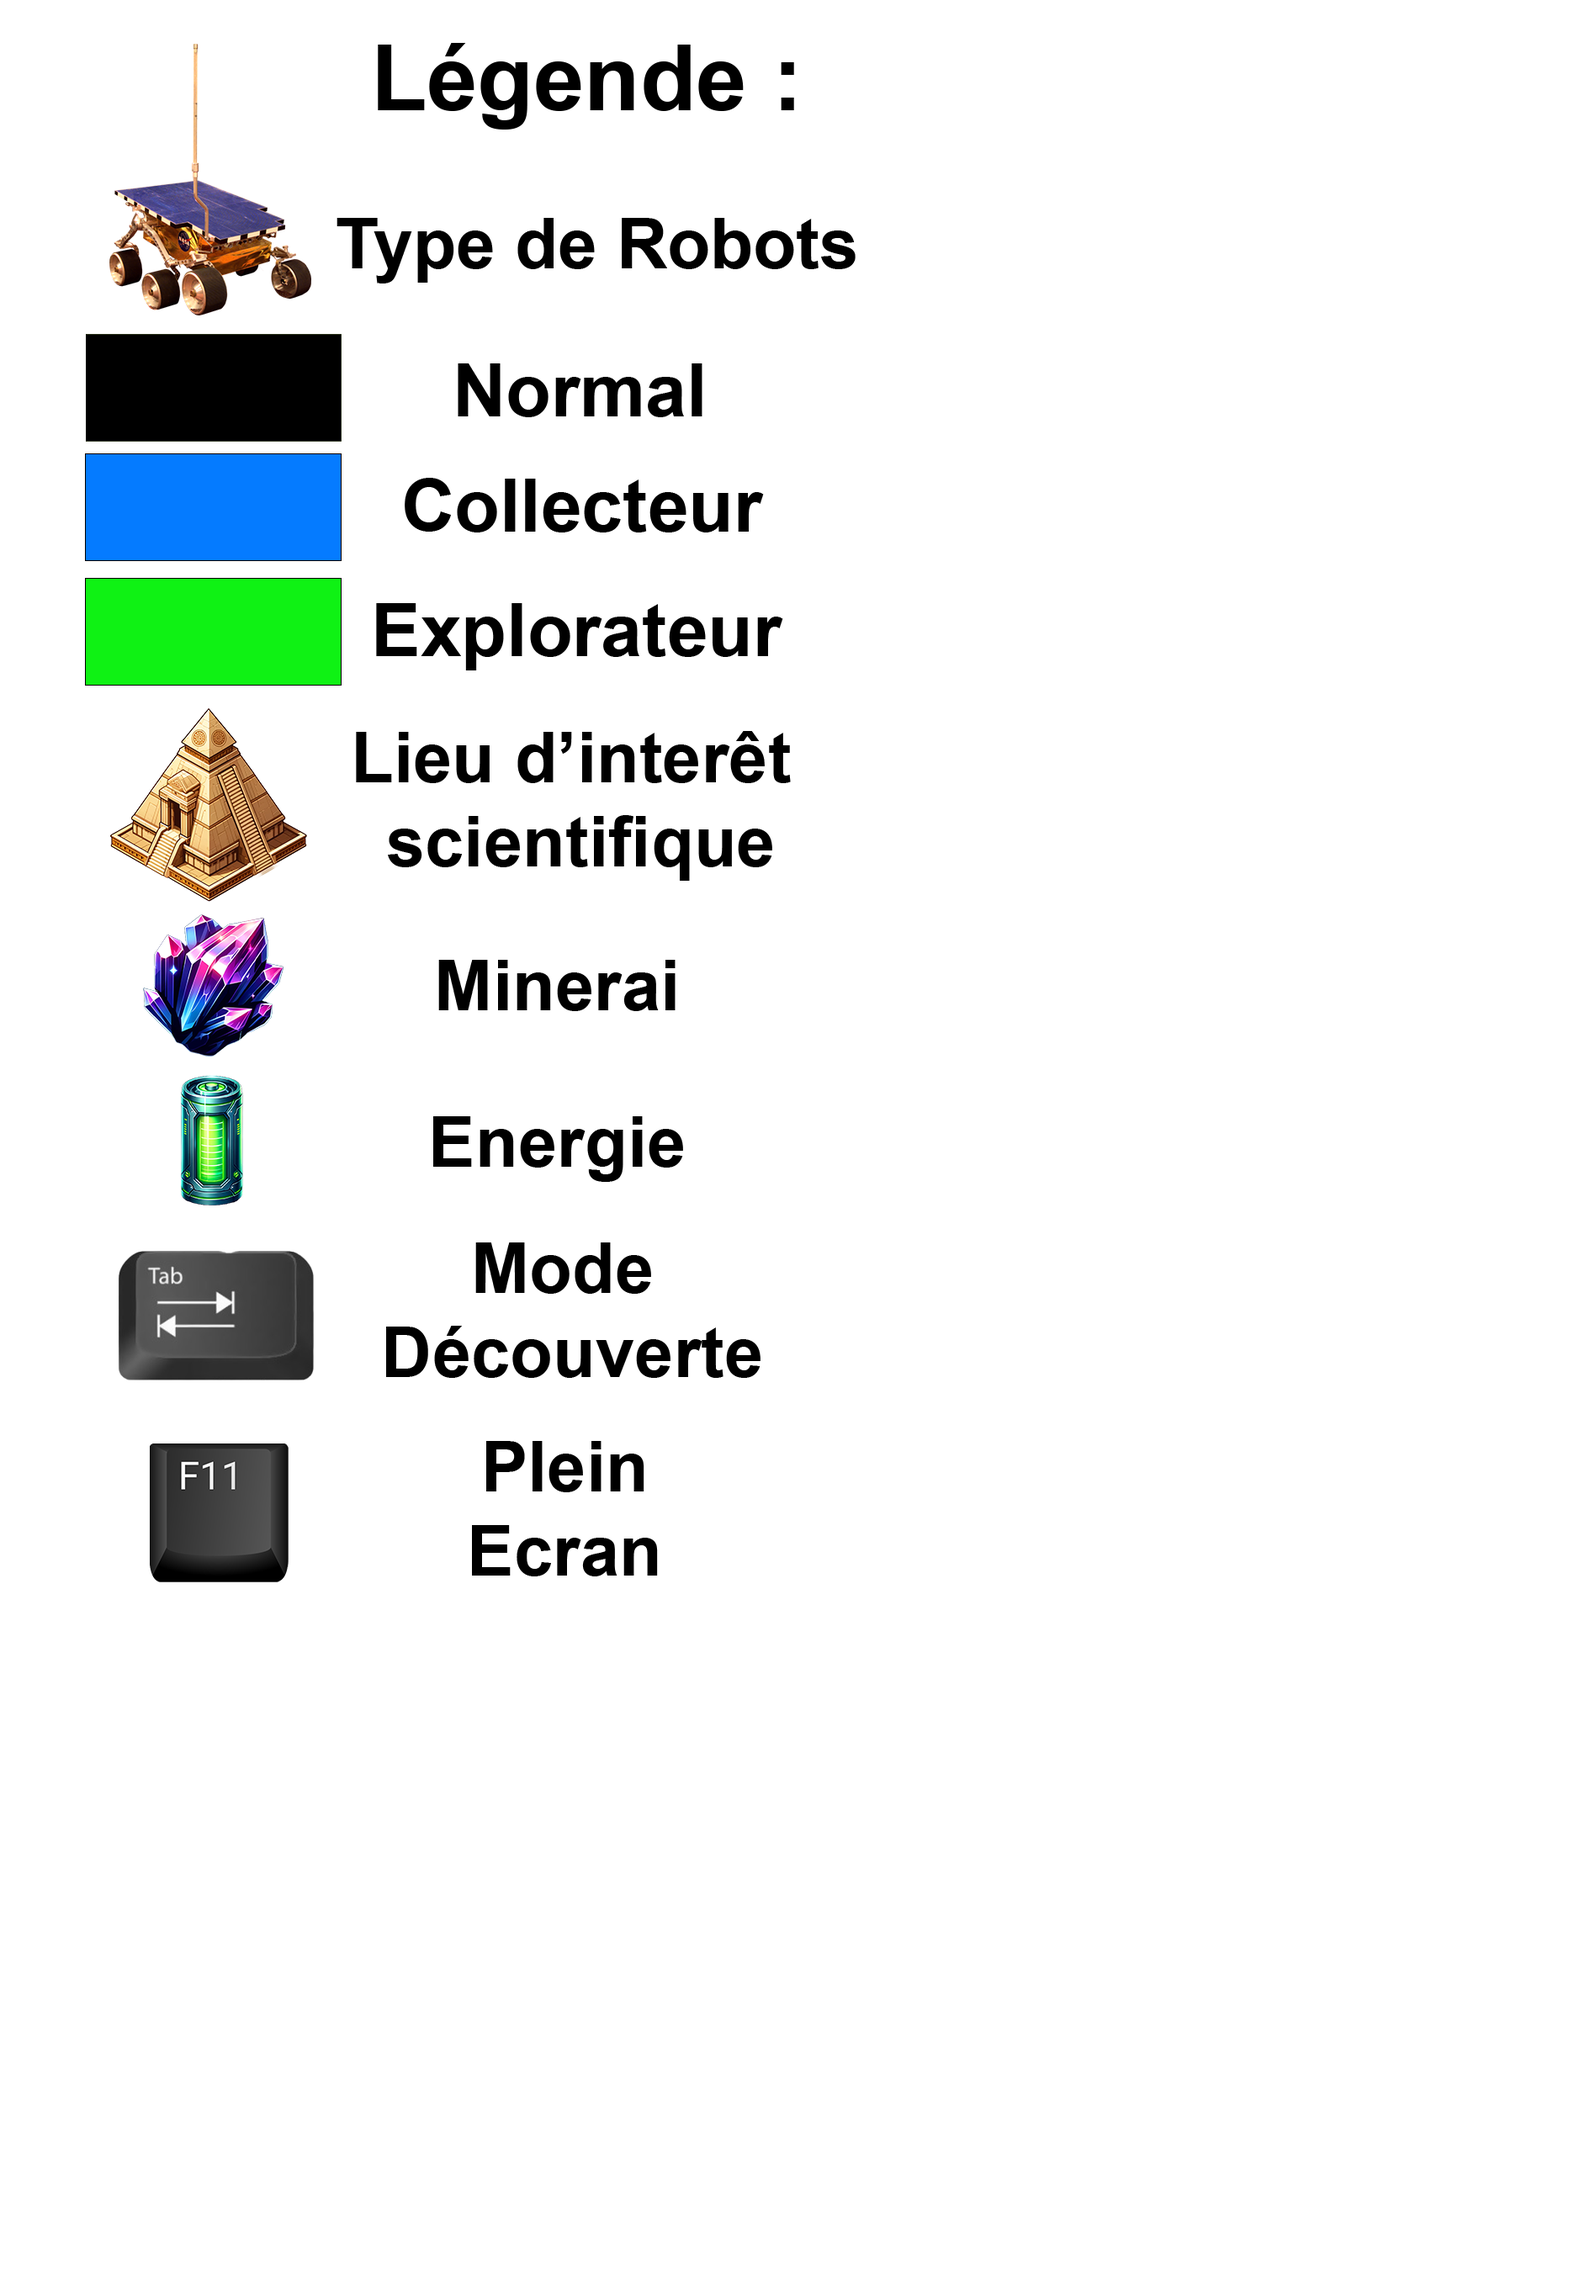
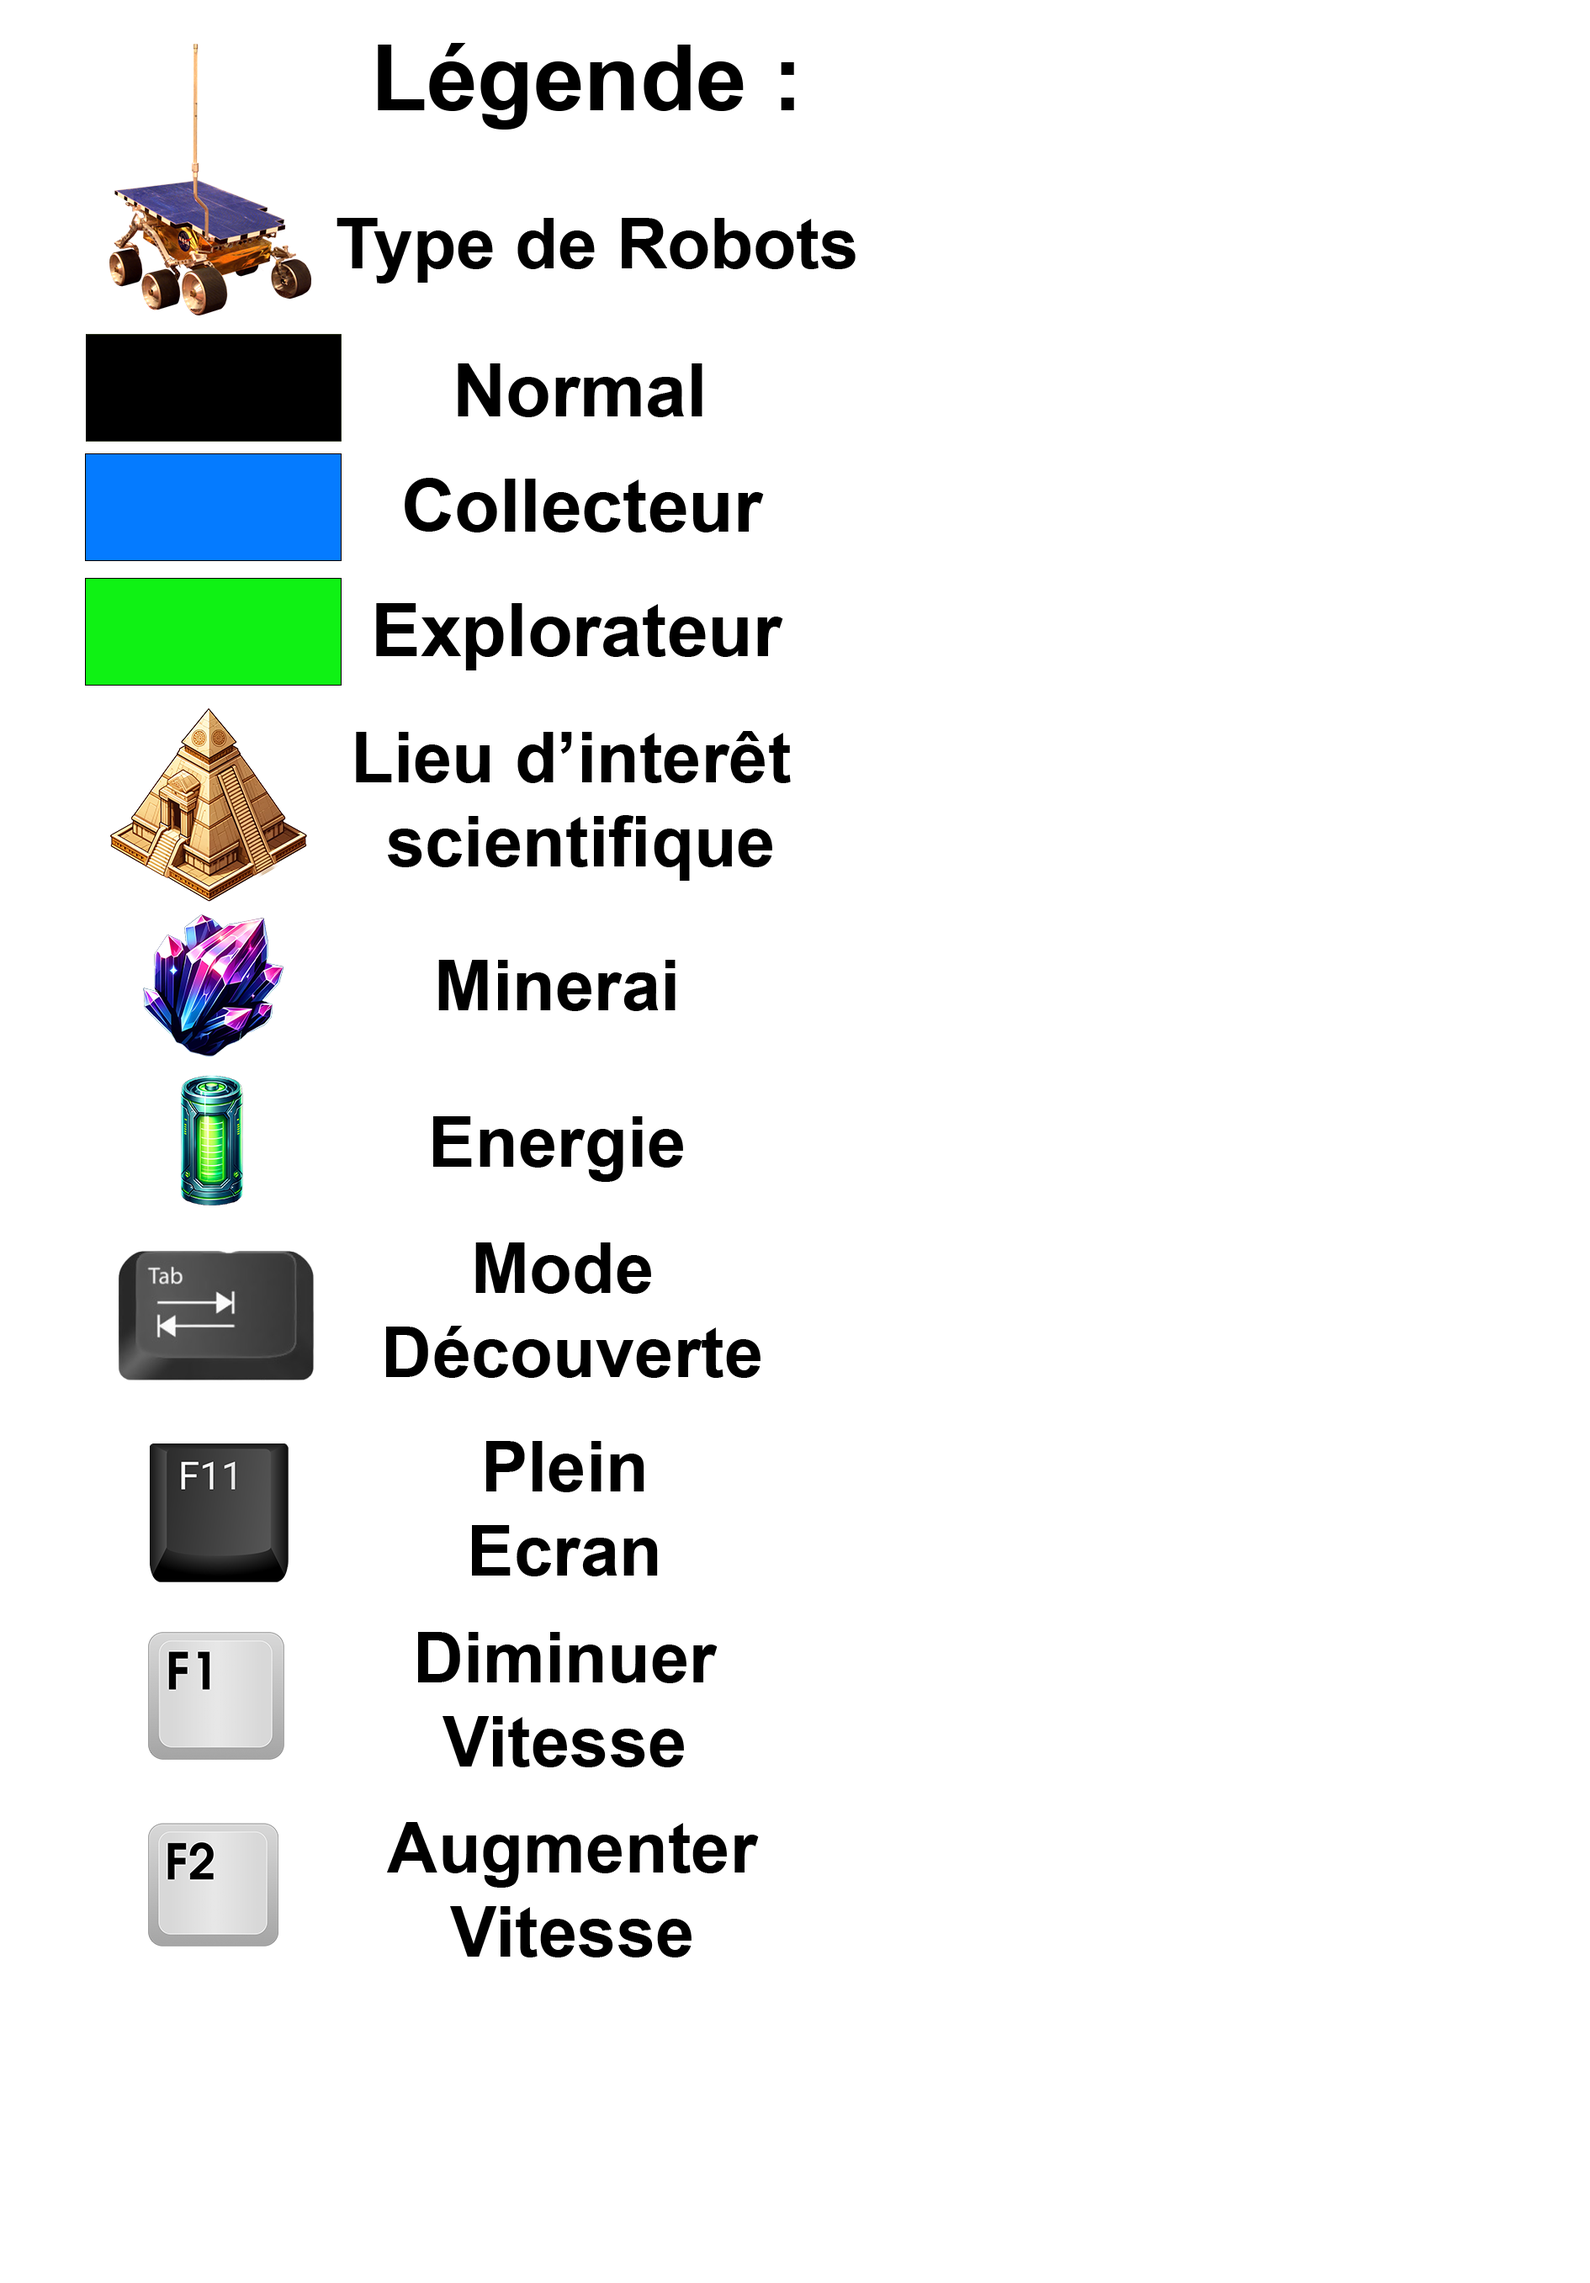
Ajout de la sélection de la vitesse du jeu et correction d'un bug avec la séléction des robots

Changed region(s): [[0.0937, 0.7119, 0.1873, 0.8666], [0.2497, 0.8047, 0.4683, 0.8666], [0.2497, 0.7119, 0.4683, 0.7738]]

diff --git a/src/main.rs b/src/main.rs
@@ -89,10 +89,10 @@ struct Robot {
     nom: String,
     pv_max: i32,
     type_robot: TypeRobot,
-    vitesse: i32,
+    vitesse: u32,
     timer: f32,
     target_position: Option<Position>,
-    steps_moved: i32,
+    steps_moved: u32,
 }
 
 #[derive(Resource, Debug)]
@@ -101,12 +101,19 @@ struct Compteur {
     energie: u32
 }
 
+#[derive(Resource, Debug)]
+struct VitesseGlobale {
+    vitesse: u32
+}
+
 #[derive(Component)]
 struct TexteEnergie;
 
 #[derive(Component)]
 struct TexteMinerai;
 
+#[derive(Component)]
+struct TexteVitesse;
 
 #[derive(Component, Debug)]
 struct ElementCarte {
@@ -338,6 +345,7 @@ fn spawn_robots(
     mut commands: Commands,
     asset_server: Res<AssetServer>,
     base_query: Query<(&Base, &Position)>,
+    vitesse_globale: Res<VitesseGlobale>
 ) {
     println!("Choisissez le nombre de robot :");
 
@@ -350,8 +358,11 @@ fn spawn_robots(
 
     let trimmed = input.trim();
 
-    let limit: i32 = trimmed.parse().expect("Input was not a valid integer");
-
+    let limit = trimmed.parse::<i32>().unwrap_or_else(|_| {
+        println!("Mauvaise valeur dans le choix du nombre de robot. La simulation commencera à 5 robots.");
+        5 
+    });
+    
     let robot_texture_handle = asset_server.load(ROBOT_SPRITE);
 
     if let Some((_, base_position)) = base_query.iter().next() {
@@ -372,7 +383,7 @@ fn spawn_robots(
             let target_x: i32 = rand::thread_rng().gen_range(0..50) as i32;
             let target_y: i32 = rand::thread_rng().gen_range(0..50) as i32;
 
-            let timer = 5.0 / vitesse as f32;
+            let timer = 5.0 / (vitesse * vitesse_globale.vitesse) as f32;
 
             commands
                 .spawn(SpriteBundle {
@@ -418,8 +429,8 @@ fn collect_resources_system(
     mut commands: Commands,
     mut robot_query: Query<(Entity, &mut Robot, &Position)>,
     mut element_carte_query: Query<(Entity, &mut ElementCarte, &Position)>,
-    mut query_energie: Query<&mut Text, (With<TexteEnergie>, Without<TexteMinerai>)>,
-    mut query_minerai: Query<&mut Text, (With<TexteMinerai>, Without<TexteEnergie>)>,
+    mut query_energie: Query<&mut Text, (With<TexteEnergie>, Without<TexteMinerai>, Without<TexteVitesse>)>,
+    mut query_minerai: Query<&mut Text, (With<TexteMinerai>, Without<TexteEnergie>, Without<TexteVitesse>)>,
     mut compteur: ResMut<Compteur>,
 ) {
     for (robot_entity, mut robot, robot_position) in robot_query.iter_mut() {
@@ -531,8 +542,24 @@ fn toggle_cases_non_decouvertes(
     // Bascule l'état d'affichage quand la touche Tab est pressée
     if keyboard_input.just_pressed(KeyCode::Tab) {
         affichage.0 = !affichage.0;
-        println!("Affichage cases non découvertes: {:?}", affichage.0);
-        print!("test");
+    }
+}
+
+/*
+ *** Fonction pour augmenter ou diminuer la vitesse globale de l'application et du parcours des robots
+ */ 
+fn toggle_vitesse(
+    keyboard_input: Res<ButtonInput<KeyCode>>,
+    mut vitesse_globale: ResMut<VitesseGlobale>,
+    mut query_vitesse: Query<&mut Text, (With<TexteVitesse>, Without<TexteEnergie>, Without<TexteMinerai>)>,
+) {
+    if keyboard_input.just_pressed(KeyCode::F2) && vitesse_globale.vitesse < 150 {
+        vitesse_globale.vitesse += 1;
+        update_text_vitesse(&mut query_vitesse, vitesse_globale)
+    }
+    else if keyboard_input.just_pressed(KeyCode::F1) && vitesse_globale.vitesse > 1 {
+        vitesse_globale.vitesse -= 1;
+        update_text_vitesse(&mut query_vitesse, vitesse_globale)
     }
 }
 
@@ -588,6 +615,7 @@ fn move_robots_on_map_system(
     base_query: Query<(&Base, &Position), Without<Robot>>, // Exclure les Robots ici
     element_carte_query: Query<(&ElementCarte, &Position), Without<Robot>>, // Exclure les Robots ici
     time: Res<Time>,
+    vitesse_globale: Res<VitesseGlobale>
 ) {
     let delta = time.delta_seconds();
     let carte = carte_query.single();
@@ -600,7 +628,7 @@ fn move_robots_on_map_system(
             RobotState::Exploring => {
                 if robot.timer <= 0.0 {
                     if let Some(target_position) = &robot.target_position {
-                        if *position != *target_position && robot.steps_moved < 30 {
+                        if *position != *target_position {
                             // Vérifie si la position suivante est un obstacle
                             let next_x = (position.x + (target_position.x - position.x).signum())
                                 % carte.largeur as i32;
@@ -636,7 +664,7 @@ fn move_robots_on_map_system(
                             *state = RobotState::Returning;
                         }
                     }
-                    robot.timer = 1.0 / robot.vitesse as f32;
+                    robot.timer = 1.0 / (robot.vitesse * vitesse_globale.vitesse) as f32;
                 }
             }
             RobotState::Returning => {
@@ -651,7 +679,7 @@ fn move_robots_on_map_system(
                         *state = RobotState::AtBase;
                         robot.timer = 5.0; // Attente à la base
                     }
-                    robot.timer = 1.0 / robot.vitesse as f32;
+                    robot.timer = 1.0 / (robot.vitesse * vitesse_globale.vitesse) as f32;
                 }
             }
             RobotState::AtBase => {
@@ -666,7 +694,7 @@ fn move_robots_on_map_system(
                     robot.steps_moved = 0;
 
                     *state = RobotState::Exploring;
-                    robot.timer = 1.0 / robot.vitesse as f32;
+                    robot.timer = 1.0 / (robot.vitesse * vitesse_globale.vitesse) as f32;
                 }
             }
         }
@@ -784,7 +812,7 @@ fn setup_ui(
             TextSection::new(
                 "0",
                 TextStyle {
-                    font: font,
+                    font: font.clone(),
                     font_size: 30.0,
                     color: Color::PURPLE,
                 }
@@ -799,7 +827,37 @@ fn setup_ui(
         },
         ..default()
     })
-    .insert(TexteMinerai);    
+    .insert(TexteMinerai);  
+
+    commands.spawn(TextBundle {
+        text: Text::from_sections([
+            TextSection::new(
+                "Vitesse: x",
+                TextStyle {
+                    font: font.clone(),
+                    font_size: 30.0,
+                    color: Color::WHITE,
+                }
+            ),
+            TextSection::new(
+                "1",
+                TextStyle {
+                    font: font.clone(),
+                    font_size: 30.0,
+                    color: Color::WHITE,
+                }
+            )
+        ])
+        .with_justify(JustifyText::Right),
+        style: Style {
+            position_type: PositionType::Absolute,
+            top: Val::Px(50.0), 
+            right: Val::Px(25.0),
+            ..default()
+        },
+        ..default()
+    })
+    .insert(TexteVitesse);    
 }
 
 /***
@@ -807,8 +865,8 @@ fn setup_ui(
  */
 fn update_text(
     compteur: &Compteur,
-    mut query_energie: &mut Query<&mut Text, (With<TexteEnergie>, Without<TexteMinerai>)>,
-    mut query_minerai: &mut Query<&mut Text, (With<TexteMinerai>, Without<TexteEnergie>)>
+    mut query_energie: &mut Query<&mut Text, (With<TexteEnergie>, Without<TexteMinerai>, Without<TexteVitesse>)>,
+    mut query_minerai: &mut Query<&mut Text, (With<TexteMinerai>, Without<TexteEnergie>, Without<TexteVitesse>)>,
 ) {
     if let Ok(mut texte_energie) = query_energie.get_single_mut() {
         texte_energie.sections[1].value = compteur.energie.to_string();
@@ -818,6 +876,17 @@ fn update_text(
     } 
 }
 
+/***
+ * Fonction pour mettre à jour le texte de la vitesse
+ */
+fn update_text_vitesse(
+    query_vitesse: &mut Query<&mut Text, (With<TexteVitesse>, Without<TexteEnergie>, Without<TexteMinerai>)>,
+    vitesse_globale: ResMut<VitesseGlobale>
+) {
+    if let Ok(mut texte_vitesse) = query_vitesse.get_single_mut() {
+        texte_vitesse.sections[1].value = vitesse_globale.vitesse.to_string();
+    } 
+}
 
 /***
  * Fonction pour ajouter une légende
@@ -917,6 +986,7 @@ fn main() {
         )
         .insert_resource(ClearColor(Color::rgb(0.5, 0.5, 0.5)))
         .insert_resource(AffichageCasesNonDecouvertes(false))
+        .insert_resource(VitesseGlobale { vitesse : 1 })
         .insert_resource(SeedResource { seed: seed_option })
         .insert_resource(Compteur { minerai: 0, energie: 0 })
         .add_systems(Startup, setup_map)
@@ -926,6 +996,7 @@ fn main() {
         .add_systems(PostStartup, spawn_robots)
         .add_systems(Update, move_robots_on_map_system)
         .add_systems(Update, toggle_cases_non_decouvertes)
+        .add_systems(Update, toggle_vitesse)
         .add_systems(Update, toggle_fullscreen)
         .add_systems(Update, assign_targets)
         .add_systems(Update, adjust_visibility_system)
